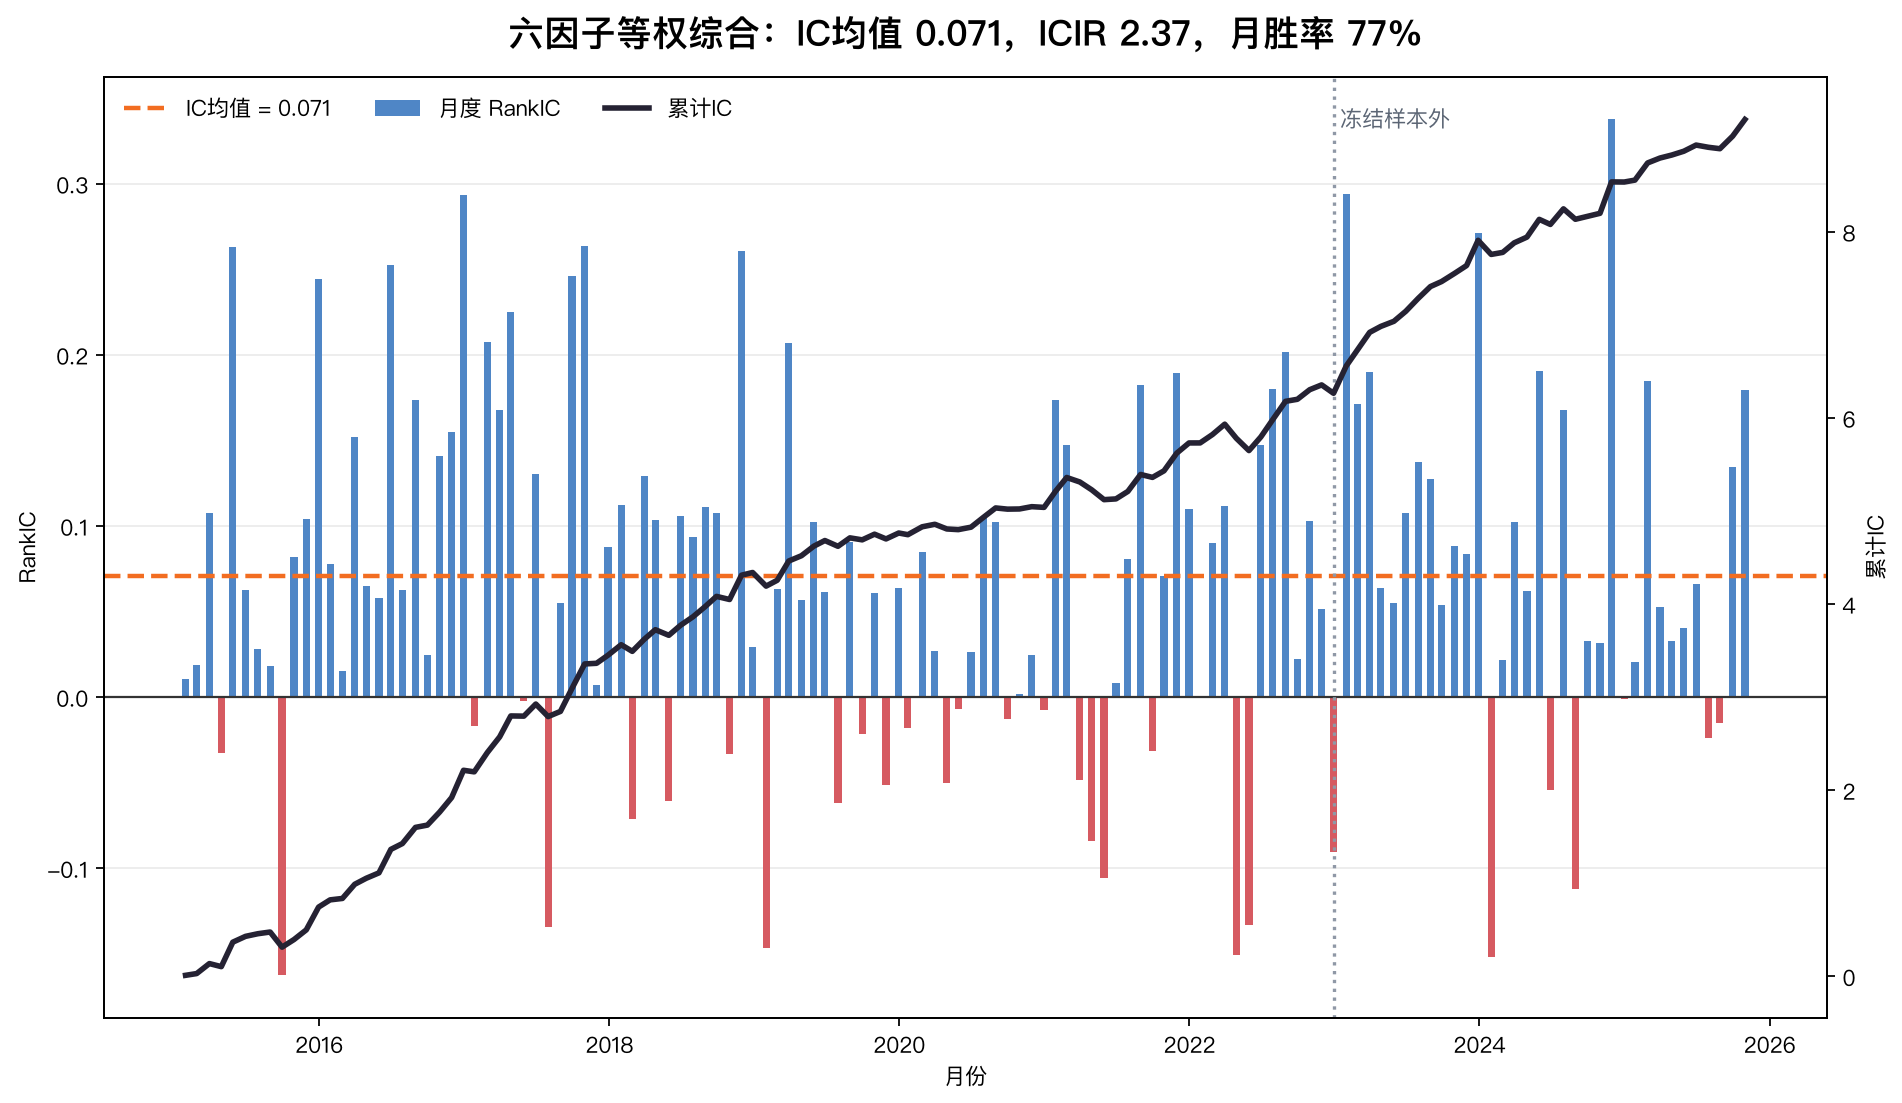
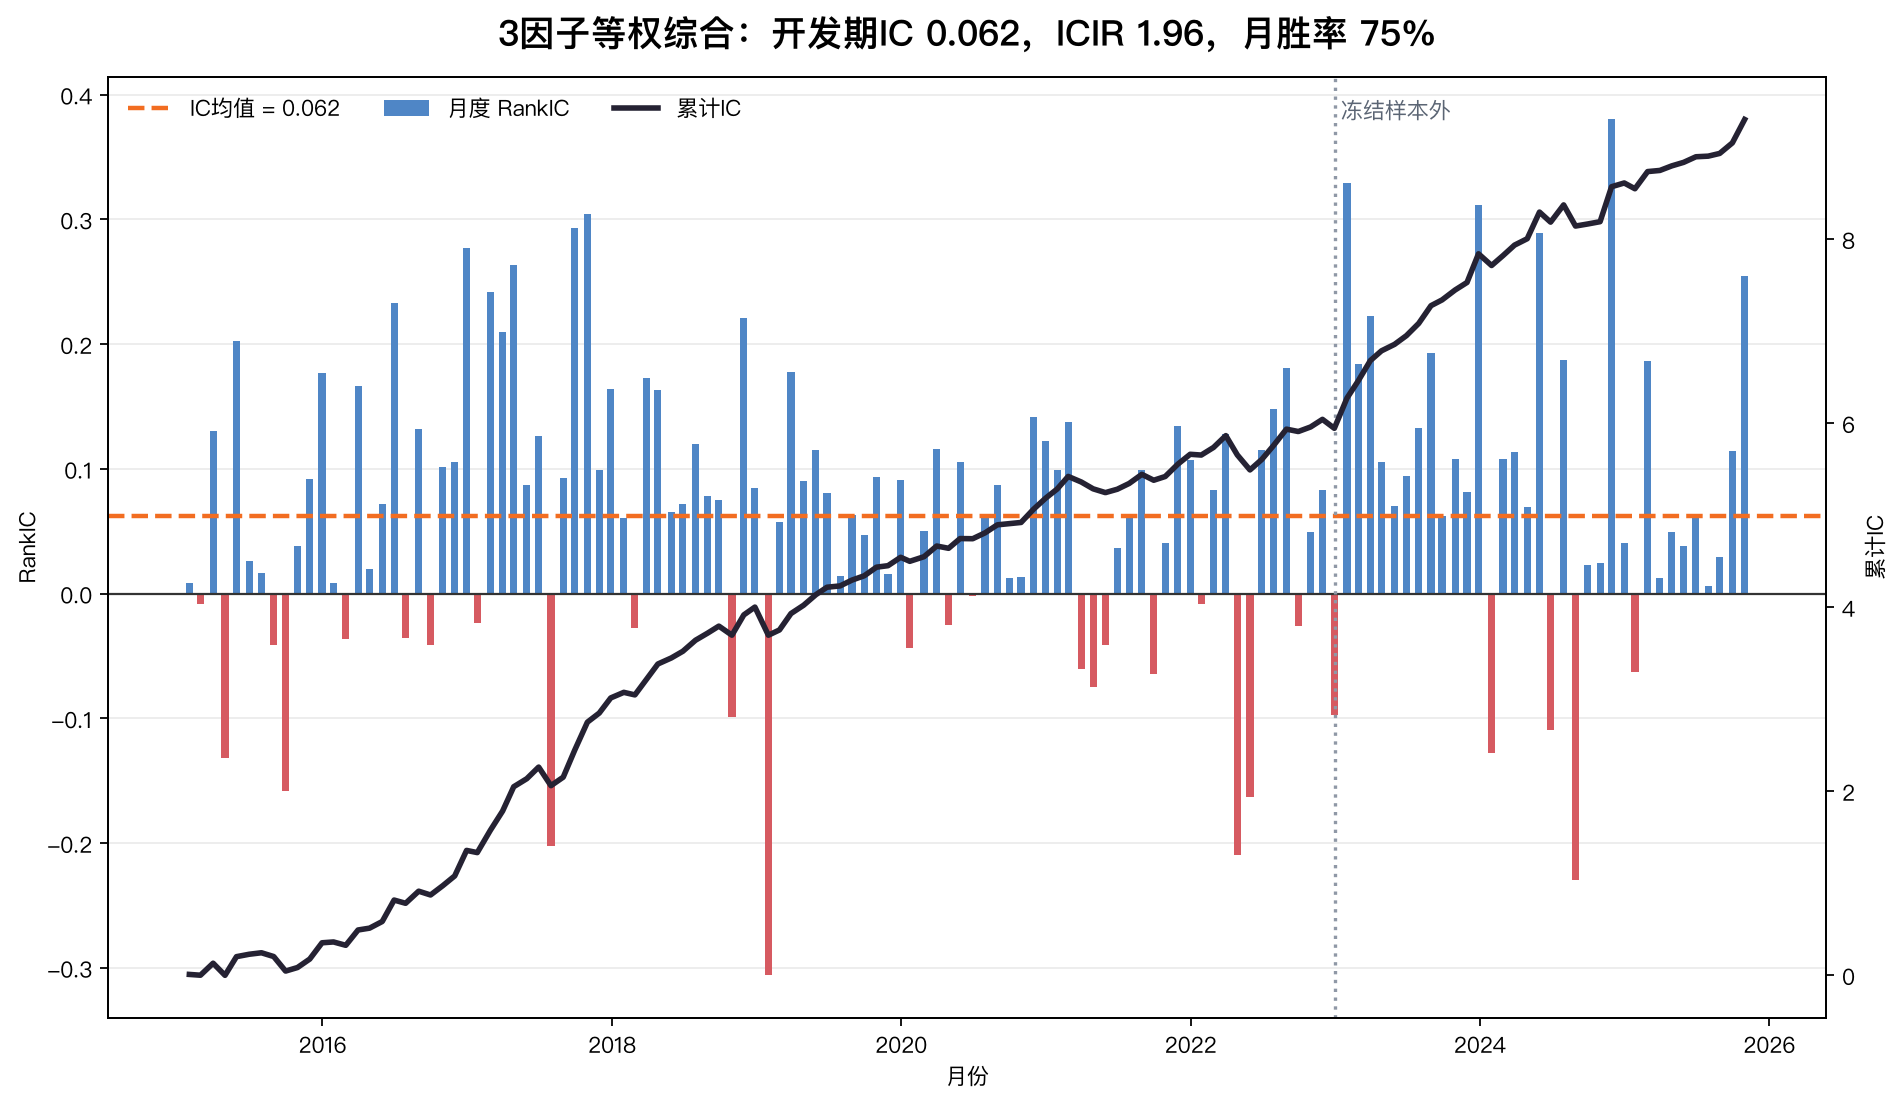
fix(factors): tighten five-group factor freeze

diff --git a/scripts/plot_factor_ic.py b/scripts/plot_factor_ic.py
@@ -40,9 +40,10 @@ def main() -> int:
     ic = monthly_rank_ic(panel, "equal_weight_score").dropna()
     dates = pd.to_datetime(ic.index)
     cumulative = ic.cumsum()
-    mean_ic = ic.mean()
-    icir = mean_ic / ic.std(ddof=1) * np.sqrt(12)
-    win_rate = (ic > 0).mean()
+    development = ic[dates <= pd.Timestamp("2022-12-31")]
+    mean_ic = development.mean()
+    icir = mean_ic / development.std(ddof=1) * np.sqrt(12)
+    win_rate = (development > 0).mean()
 
     plt.rcParams["font.sans-serif"] = ["PingFang SC", "Arial Unicode MS", "DejaVu Sans"]
     plt.rcParams["axes.unicode_minus"] = False
@@ -69,8 +70,13 @@ def main() -> int:
     handles1, labels1 = axis.get_legend_handles_labels()
     handles2, labels2 = axis2.get_legend_handles_labels()
     axis.legend(handles1 + handles2, labels1 + labels2, loc="upper left", frameon=False, ncol=3)
+    factor_count = len(oriented)
+    title = (
+        f"{factor_count}因子等权综合：开发期IC {mean_ic:.3f}，"
+        f"ICIR {icir:.2f}，月胜率 {win_rate:.0%}"
+    )
     axis.set_title(
-        f"六因子等权综合：IC均值 {mean_ic:.3f}，ICIR {icir:.2f}，月胜率 {win_rate:.0%}",
+        title,
         fontsize=16,
         fontweight="bold",
         pad=14,
@@ -115,7 +121,11 @@ def main() -> int:
                 fontsize=9,
             )
     axes[0].set_ylabel("30bp成本后平均月收益（%）")
-    figure.suptitle("六因子等权综合：五分组收益与单调性", fontsize=15, fontweight="bold")
+    figure.suptitle(
+        f"{factor_count}因子等权综合：五分组收益与单调性",
+        fontsize=15,
+        fontweight="bold",
+    )
     figure.tight_layout()
     figure.savefig(args.quantile_output, bbox_inches="tight")
     plt.close(figure)

diff --git a/src/pb_roe/factors/validation.py b/src/pb_roe/factors/validation.py
@@ -18,6 +18,10 @@ from pb_roe.evaluation.quantiles import long_short_spread, quantile_backtest
 from pb_roe.models.dataset import load_model_panel
 
 
+def _passes_minimum(value: float, threshold: float) -> bool:
+    return value + 1e-12 >= threshold
+
+
 def _segment_summary(panel: pd.DataFrame, feature: str) -> pd.Series:
     return summarize_ic(calculate_ic(panel, [feature], return_column="target_return")).iloc[0]
 
@@ -133,8 +137,10 @@ def validate_factors_from_cli(
             "ic": row["ic_mean"] >= settings["minimum_ic"],
             "t_stat": row["newey_west_t"] >= settings["minimum_newey_west_t"],
             "year_stability": row["year_positive_rate"] >= settings["minimum_year_positive_rate"],
-            "monotonicity": row["quantile_monotonicity_30bp"]
-            >= settings["minimum_quantile_monotonicity"],
+            "monotonicity": _passes_minimum(
+                float(row["quantile_monotonicity_30bp"]),
+                float(settings["minimum_quantile_monotonicity"]),
+            ),
             "cost_30bp": (
                 not settings["require_positive_30bp_spread"]
                 or row["long_short_annual_return_30bp"] > 0

diff --git a/tests/test_factor_validation.py b/tests/test_factor_validation.py
@@ -1,7 +1,7 @@
 import pandas as pd
 import pytest
 
-from pb_roe.factors.validation import _factor_metrics
+from pb_roe.factors.validation import _factor_metrics, _passes_minimum
 
 
 def test_factor_metrics_reports_costs_and_monotonicity() -> None:
@@ -25,3 +25,8 @@ def test_factor_metrics_reports_costs_and_monotonicity() -> None:
     assert metrics["quantile_monotonicity_30bp"] == pytest.approx(1.0)
     assert {10, 30, 50} == set(quantiles["cost_bps"])
     assert "long_short_annual_return_30bp" in metrics
+
+
+def test_spearman_boundary_is_numerically_stable() -> None:
+    assert _passes_minimum(0.7999999999999999, 0.8)
+    assert not _passes_minimum(0.79, 0.8)

diff --git a/docs/factor_analysis_report.md b/docs/factor_analysis_report.md
@@ -12,9 +12,9 @@
 
 - 每月最低覆盖率不低于80%；
 - 开发期 Rank IC 不低于2%；
-- Newey-West t 值不低于1.5；
+- Newey-West t 值不低于2.0；
 - 年度正IC比例不低于50%；
-- 五分组30bp成本后收益的 Spearman 单调性不低于0.6；
+- 五分组30bp成本后收益的 Spearman 单调性不低于0.8；
 - 30bp成本后 Top–Bottom 多空年化收益为正。
 
 完整候选表、方向和淘汰原因见 [factor_validation_summary.csv](results/factor_validation_summary.csv)，冻结名单见 [frozen_factor_selection.json](results/frozen_factor_selection.json)。
@@ -23,13 +23,13 @@
 
 | 类别 | 保留 | 淘汰及原因 |
 |---|---|---|
-| Value | BP、PB-ROE综合 | 无 |
+| Value | PB-ROE综合 | BP：单调性不足 |
 | Quality | 无 | ROE：分层不单调且30bp多空为负；毛利率：IC和t值不足 |
 | Growth | 无 | 营收增长、盈利增长：IC和t值不足 |
-| Momentum | 12–1月动量、1月反转 | 无 |
-| Risk & Trading | 低Beta、低特异波动 | 流动性：IC、单调性和成本不合格；总波动率：单调性和成本不合格 |
+| Momentum | 12–1月动量 | 1月反转：单调性不足 |
+| Risk & Trading | 低特异波动 | 低Beta：单调性不足；流动性：IC、t值、单调性和成本不合格；总波动率：单调性和成本不合格 |
 
-规则没有预设入选数量。12个候选逐一通过同一组门槛后，实际有6个通过，最终冻结为：**BP、PB-ROE综合、12–1月动量、1月反转、低Beta、低特异波动**。入选因子间绝对相关性最大约为0.59，详见 [selected_factor_correlations.csv](results/selected_factor_correlations.csv)；没有出现接近完全重复的因子对。
+规则没有预设入选数量。12个候选逐一通过收紧后的同一组门槛后，实际有3个通过，最终冻结为：**PB-ROE综合、12–1月动量、低特异波动**。入选因子间绝对相关性最大约为0.43，详见 [selected_factor_correlations.csv](results/selected_factor_correlations.csv)；没有出现接近完全重复的因子对。
 
 ## 4. 12个候选因子的完整证据
 
@@ -37,41 +37,41 @@
 
 | 因子 | 开发期IC | NW t | 单调性 | 30bp多空年化 | 冻结期IC | 结论 | 图 |
 |---|---:|---:|---:|---:|---:|---|---|
-| 盈利增长 | 0.53% | 0.85 | 0.60 | 0.50% | -3.06% | 淘汰：IC、t不足 | [IC](results/figures/factor-analysis-12/earnings-growth-ic.png) · [五分组](results/figures/factor-analysis-12/earnings-growth-quantiles.png) |
-| 营收增长 | 0.33% | 0.41 | 0.70 | 0.72% | -5.58% | 淘汰：IC、t不足 | [IC](results/figures/factor-analysis-12/revenue-growth-ic.png) · [五分组](results/figures/factor-analysis-12/revenue-growth-quantiles.png) |
+| 盈利增长 | 0.53% | 0.85 | 0.60 | 0.50% | -3.06% | 淘汰：IC、t、单调性不足 | [IC](results/figures/factor-analysis-12/earnings-growth-ic.png) · [五分组](results/figures/factor-analysis-12/earnings-growth-quantiles.png) |
+| 营收增长 | 0.33% | 0.41 | 0.70 | 0.72% | -5.58% | 淘汰：IC、t、单调性不足 | [IC](results/figures/factor-analysis-12/revenue-growth-ic.png) · [五分组](results/figures/factor-analysis-12/revenue-growth-quantiles.png) |
 | 12–1月动量 | 2.89% | 2.05 | 1.00 | 4.48% | 4.92% | **保留** | [IC](results/figures/factor-analysis-12/momentum-12-1-ic.png) · [五分组](results/figures/factor-analysis-12/momentum-12-1-quantiles.png) |
-| 1月反转 | 2.87% | 2.17 | 0.60 | 1.84% | -0.38% | **保留**；冻结期衰减 | [IC](results/figures/factor-analysis-12/reversal-1m-ic.png) · [五分组](results/figures/factor-analysis-12/reversal-1m-quantiles.png) |
-| 毛利率 | 0.68% | 1.01 | 0.60 | 0.80% | -2.20% | 淘汰：IC、t不足 | [IC](results/figures/factor-analysis-12/gross-margin-ic.png) · [五分组](results/figures/factor-analysis-12/gross-margin-quantiles.png) |
-| ROE | 1.90% | 1.97 | 0.20 | -1.12% | -0.90% | 淘汰：IC、单调性、成本 | [IC](results/figures/factor-analysis-12/roe-ic.png) · [五分组](results/figures/factor-analysis-12/roe-quantiles.png) |
-| 低Beta | 3.40% | 2.89 | 0.70 | 0.13% | 6.09% | **保留**；成本后较弱 | [IC](results/figures/factor-analysis-12/beta-252d-ic.png) · [五分组](results/figures/factor-analysis-12/beta-252d-quantiles.png) |
+| 1月反转 | 2.87% | 2.17 | 0.60 | 1.84% | -0.38% | 淘汰：单调性不足，冻结期衰减 | [IC](results/figures/factor-analysis-12/reversal-1m-ic.png) · [五分组](results/figures/factor-analysis-12/reversal-1m-quantiles.png) |
+| 毛利率 | 0.68% | 1.01 | 0.60 | 0.80% | -2.20% | 淘汰：IC、t、单调性不足 | [IC](results/figures/factor-analysis-12/gross-margin-ic.png) · [五分组](results/figures/factor-analysis-12/gross-margin-quantiles.png) |
+| ROE | 1.90% | 1.97 | 0.20 | -1.12% | -0.90% | 淘汰：IC、t、单调性、成本 | [IC](results/figures/factor-analysis-12/roe-ic.png) · [五分组](results/figures/factor-analysis-12/roe-quantiles.png) |
+| 低Beta | 3.40% | 2.89 | 0.70 | 0.13% | 6.09% | 淘汰：单调性不足 | [IC](results/figures/factor-analysis-12/beta-252d-ic.png) · [五分组](results/figures/factor-analysis-12/beta-252d-quantiles.png) |
 | 低特异波动 | 4.50% | 4.60 | 0.80 | 2.77% | 9.58% | **保留** | [IC](results/figures/factor-analysis-12/idiosyncratic-volatility-ic.png) · [五分组](results/figures/factor-analysis-12/idiosyncratic-volatility-quantiles.png) |
 | 低流动性 | 1.27% | 1.11 | -0.40 | -4.45% | 2.43% | 淘汰：IC、t、单调性、成本 | [IC](results/figures/factor-analysis-12/liquidity-20d-ic.png) · [五分组](results/figures/factor-analysis-12/liquidity-20d-quantiles.png) |
 | 低总波动率 | 3.76% | 4.12 | 0.50 | -0.73% | 9.34% | 淘汰：单调性、成本 | [IC](results/figures/factor-analysis-12/volatility-60d-ic.png) · [五分组](results/figures/factor-analysis-12/volatility-60d-quantiles.png) |
-| BP | 2.76% | 2.52 | 0.70 | 1.01% | 5.44% | **保留** | [IC](results/figures/factor-analysis-12/bp-ic.png) · [五分组](results/figures/factor-analysis-12/bp-quantiles.png) |
+| BP | 2.76% | 2.52 | 0.70 | 1.01% | 5.44% | 淘汰：单调性不足 | [IC](results/figures/factor-analysis-12/bp-ic.png) · [五分组](results/figures/factor-analysis-12/bp-quantiles.png) |
 | PB-ROE综合 | 3.67% | 3.70 | 0.90 | 1.64% | 4.20% | **保留** | [IC](results/figures/factor-analysis-12/paper-score-ic.png) · [五分组](results/figures/factor-analysis-12/paper-score-quantiles.png) |
 
 单调性是开发期五组平均净收益与 Q1–Q5 顺序的 Spearman 相关系数，并不要求五根柱严格逐级升高。筛选只读开发期指标；冻结期IC在名单固定后报告，因此不会反向改变入选名单。
 
-## 5. 六因子等权综合：IC稳定性
+## 5. 三因子等权综合：IC稳定性
 
-![六因子等权综合IC](results/figures/equal-weight-ic-matplotlib.png)
+![三因子等权综合IC](results/figures/equal-weight-ic-matplotlib.png)
 
-开发期六因子等权得分的 Rank IC 为 **6.53%**，Newey-West t 值为 **6.40**，ICIR 为 **2.21**，月度正IC比例为 **75%**。冻结期 Rank IC 为 **8.65%**、NW t 为 **5.69**。这说明冻结期的横截面排序预测并未减弱。
+开发期三因子等权得分的 Rank IC 为 **6.19%**，Newey-West t 值为 **5.69**，ICIR 为 **1.96**，月度正IC比例为 **75%**。冻结期 Rank IC 为 **9.87%**、NW t 为 **5.18**。这说明冻结期的横截面排序预测并未减弱。
 
 但这张图的累计IC不能单独推出可投资结论：IC只衡量横截面排序与下一月行业中性收益的相关性，还需要结合分层、成本和后续真实组合验证。
 
 ## 6. 五分组收益与单调性
 
-![六因子等权综合五分组收益](results/figures/equal-weight-quantiles-30bp.png)
+![三因子等权综合五分组收益](results/figures/equal-weight-quantiles-30bp.png)
 
-图中是六因子等权得分从低到高的五分组，按每组实际换手扣除30bp后，展示平均月收益：
+图中是三因子等权得分从低到高的五分组，按每组实际换手扣除30bp后，展示平均月收益：
 
 | 区间 | Q1 | Q2 | Q3 | Q4 | Q5 | 判断 |
 |---|---:|---:|---:|---:|---:|---|
-| 开发期 | -0.57% | -0.38% | -0.08% | 0.15% | 0.13% | 总体从低到高改善，但Q4略高于Q5，不是严格单调 |
-| 冻结期 | -0.27% | -0.37% | -0.17% | -0.04% | 0.14% | Q5仍显著最好；Q1/Q2次序反转，严格单调性不足 |
+| 开发期 | -0.47% | -0.26% | -0.03% | 0.05% | 0.25% | 五组严格递增 |
+| 冻结期 | -0.04% | -0.70% | -0.09% | 0.10% | 0.32% | Q5最好，但Q1/Q2次序反转，不是严格单调 |
 
-因此，六因子得分的主要证据是“低分组明显差、最高组相对好”，不是每个相邻分组都严格递增。开发期30bp Top–Bottom 年化为 **5.31%**，Sharpe 为 **0.70**；冻结期30bp Top–Bottom 年化降至 **1.62%**，50bp时仅 **0.05%**。成本敏感性表明统计预测能力没有完全转化为稳健的经济收益。
+三因子得分在开发期同时满足严格五组递增与正的成本后多空收益。开发期30bp Top–Bottom 年化为 **6.94%**，Sharpe 为 **0.86**；冻结期30bp Top–Bottom 年化为 **2.51%**，50bp时为 **1.67%**。冻结期仍有正收益，但组间次序不再严格，因此只能表述为样本外方向延续，不能宣称稳定严格单调。
 
 ## 7. 暴露、容量与局限
 
@@ -82,6 +82,6 @@
 
 ## 8. Commit 06 结论与下一步
 
-Commit 06完成了开发期因子筛选和冻结。六因子等权得分在开发期具有强IC和正的成本后分层收益，但冻结期分层收益明显走弱，因而不能把等权组合直接表述为稳定可交易策略。
+Commit 06完成了开发期因子筛选和冻结。三因子等权得分在开发期具有强IC、严格五分组递增和正的成本后分层收益；冻结期IC与多空方向延续，但严格单调性减弱，因而不能把等权组合直接表述为稳定可交易策略。
 
-下一阶段 Commit 07 只能使用本报告冻结的6个因子重训 Elastic Net 和 LightGBM；不得重新把已淘汰的增长、质量或流动性因子加入模型。
+下一阶段 Commit 07 只能使用本报告冻结的3个因子重训 Elastic Net 和 LightGBM；不得重新把其余9个候选加入模型。

diff --git a/README.md b/README.md
@@ -13,7 +13,7 @@
 | 03 | 构建历史沪深300、行情和财务PIT数据管线，执行质量闸门并缓存 canonical Parquet | `e104f5f` | 已完成；复现闸门15/15、现代闸门16/16通过，现代因子有效起点为2012-05-31 |
 | 04 | 严格按原文构造2005–2011组合，统一成本口径并逐项对照原研报结果 | `25dc6dd` | 已完成；早期ROE披露截止假设已披露 |
 | 05 | 仅评价原研报核心信号BP、ROE、PB-ROE：IC、分层、成本、显著性、稳定性与暴露 | `1e3407c` | 已重新完成；48,560个观测、162个月，正式汇总已补齐；市值暴露降级披露 |
-| 06 | 按5类Barra-style框架构建扩展因子；只在2015–2022开发期完成单因子验证、筛选、冻结和等权多因子基准 | `f5fe62f` | **已重新完成**；12个候选验证、6个因子冻结，等权基准及三档成本已生成 |
+| 06 | 按5类Barra-style框架构建扩展因子；只在2015–2022开发期完成单因子验证、筛选、冻结和等权多因子基准 | `f5fe62f` | **已重新完成**；12个候选五分组验证、3个因子冻结，十组残留已清理 |
 | 07 | 仅使用Commit 06冻结的因子，按相同walk-forward口径训练Elastic Net和唯一树模型LightGBM | `648dde5` | **待重跑**；现有结果使用了仅通过覆盖率闸门的全部12列，保留为初版实验，不作为最终结论 |
 | 08 | 使用Commit 07冻结预测做Ledoit-Wolf风险估计、CVXPY约束组合、失败回退及10/30/50bp成本检验 | `9f37564` | **待重跑**；工程与初版结果存在，须随冻结因子模型更新 |
 | 09 | 只读取重跑后的冻结结果生成离线Dashboard和静态备份，不下载、训练或回测 | `4e26435` | **待更新**；现有Dashboard和4张图对应初版模型结果 |
@@ -40,11 +40,11 @@
 
 正式候选与淘汰原因见 [`docs/results/factor_validation_summary.csv`](docs/results/factor_validation_summary.csv)，冻结名单见 [`docs/results/frozen_factor_selection.json`](docs/results/frozen_factor_selection.json)，方向调整后的等权基准见 [`docs/results/equal_weight_factor_baseline.csv`](docs/results/equal_weight_factor_baseline.csv)，入选因子相关矩阵见 [`docs/results/selected_factor_correlations.csv`](docs/results/selected_factor_correlations.csv)。筛选只使用2015–2022开发期；冻结期指标是在名单确定后追加报告，不参与`selected`判断。
 
-- 12个候选覆盖Value、Quality、Growth、Momentum、Risk & Trading五类；筛选数量没有预设，按冻结规则实际保留BP、PB-ROE、12–1动量、1月反转、低Beta和低特异波动6个因子。
-- 营收增长、盈利增长和毛利率因开发期IC及t值不足淘汰；ROE因分层不单调且30bp成本后多空为负淘汰；流动性因IC、单调性和成本均不合格淘汰；总波动率虽IC显著，但分层单调性和成本后收益未过线。
-- 入选因子开发期等权得分IC为6.53%、Newey-West t值6.40；30bp成本后多空年化5.31%、Sharpe 0.70、最大回撤-16.41%。
-- 冻结期等权得分IC为8.65%，但30bp成本后多空年化仅1.62%，50bp仅0.05%，说明预测显著性没有完全转化为交易收益。
-- 候选因子平均绝对行业主动权重约1.7%–2.4%，入选因子相关性绝对值最高约0.59；历史总市值缺失，规模暴露继续按停止条件降级披露，不以指数权重替代。
+- 12个候选覆盖Value、Quality、Growth、Momentum、Risk & Trading五类；筛选数量没有预设，按 `IC≥2%`、`NW t≥2.0`、五分组单调性≥0.8和30bp多空为正等冻结规则，实际保留PB-ROE综合、12–1月动量和低特异波动3个因子。
+- 反转、低Beta和BP虽有正IC，但未通过收紧后的单调性门槛；其余候选因IC、显著性、单调性或成本被淘汰。
+- 三因子开发期等权得分IC为6.19%、Newey-West t值5.69；五组严格递增，30bp成本后多空年化6.94%、Sharpe 0.86、最大回撤-8.78%。
+- 冻结期等权得分IC为9.87%，30bp成本后多空年化2.51%，50bp为1.67%；方向延续但五组不再严格单调。
+- 候选因子平均绝对行业主动权重约1.7%–2.4%，入选因子相关性绝对值最高约0.43；历史总市值缺失，规模暴露继续按停止条件降级披露，不以指数权重替代。
 
 展示用基础IC图见 [`docs/results/figures/equal-weight-ic-matplotlib.png`](docs/results/figures/equal-weight-ic-matplotlib.png)：蓝/红柱表示正/负Rank IC，橙色虚线为IC均值，黑线为累计IC，竖向虚线标出2023年冻结样本外起点。
 
